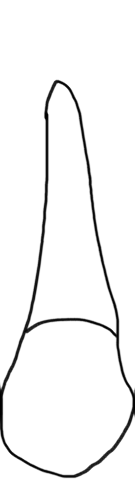
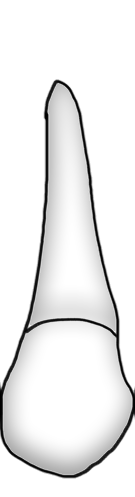
+test imlant pngs

Changed region(s): [[0.0, 0.1509, 1.0, 0.9658]]

diff --git a/teethsite/periodontalchart/static/periodontalchart/js/implant.js b/teethsite/periodontalchart/static/periodontalchart/js/implant.js
@@ -1,0 +1,90 @@
+function implant18() {
+           var el = document.getElementById("t18");
+           if (el.name == 0){
+              el.src = "static/periodontalchart/img/t18i.PNG";
+              el.name = 1;
+              document.getElementById('furk18').hidden = true;
+           }
+           else {
+              el.src = "static/periodontalchart/img/t18.PNG";
+              el.name = 0;
+              document.getElementById('furk18').hidden = false;
+           }
+}
+
+function implant17() {
+           var el = document.getElementById("t17");
+           if (el.name == 0){
+              el.src = "static/periodontalchart/img/t17i.PNG";
+              el.name = 1;
+              document.getElementById('furk17').hidden = true;
+           }
+           else {
+              el.src = "static/periodontalchart/img/t17.PNG";
+              el.name = 0;
+              document.getElementById('furk17').hidden = false;
+           }
+}
+
+function implant16() {
+           var el = document.getElementById("t16");
+           if (el.name == 0){
+              el.src = "static/periodontalchart/img/t16i.PNG";
+              el.name = 1;
+              document.getElementById('furk16').hidden = true;
+           }
+           else {
+              el.src = "static/periodontalchart/img/t16.PNG";
+              el.name = 0;
+              document.getElementById('furk16').hidden = false;
+           }
+}
+
+function implant15() {
+           var el = document.getElementById("t15");
+           if (el.name == 0){
+              el.src = "static/periodontalchart/img/t15i.PNG";
+              el.name = 1;
+           }
+           else {
+              el.src = "static/periodontalchart/img/t15.PNG";
+              el.name = 0;
+           }
+}
+
+function implant14() {
+           var el = document.getElementById("t14");
+           if (el.name == 0){
+              el.src = "static/periodontalchart/img/t14i.PNG";
+              el.name = 1;
+           }
+           else {
+              el.src = "static/periodontalchart/img/t14.PNG";
+              el.name = 0;
+           }
+}
+
+function implant13() {
+           var el = document.getElementById("t13");
+           if (el.name == 0){
+              el.src = "static/periodontalchart/img/t13i.PNG";
+              el.name = 1;
+           }
+           else {
+              el.src = "static/periodontalchart/img/t13.PNG";
+              el.name = 0;
+           }
+}
+
+function implant12() {
+           var el = document.getElementById("t12");
+           if (el.name == 0){
+              el.src = "static/periodontalchart/img/t12i.PNG";
+              el.name = 1;
+           }
+           else {
+              el.src = "static/periodontalchart/img/t15.PNG";
+              el.name = 0;
+           }
+}
+

diff --git a/teethsite/periodontalchart/templates/periodontalchart/index.html b/teethsite/periodontalchart/templates/periodontalchart/index.html
@@ -53,14 +53,14 @@
    </tr>
     <tr align="center">
     <td class="td_text">Фуркация</td>
-       <td><button class="furk" onclick="furk18()"></button></td>
-       <td><button class="furk" onclick="furk17()"></button></td>
-       <td><button class="furk" onclick="furk16()"></button></td>
-       <td><button class="furk" onclick="furk15()"></button></td>
-       <td><button class="furk" onclick="furk14()"></button></td>
-       <td><button class="furk" onclick="furk13()"></button></td>
-       <td><button class="furk" onclick="furk12()"></button></td>
-       <td><button class="furk" onclick="furk11()"></button></td>
+       <td><button class="furk" id="furk18" onclick="furk18()"></button></td>
+       <td><button class="furk" id="furk17" onclick="furk17()"></button></td>
+       <td><button class="furk" id="furk16" onclick="furk16()"></button></td>
+        <td></td>
+       <td></td>
+       <td></td>
+       <td></td>
+       <td></td>
    </tr>
    <tr align="center">
     <td class="td_text">Кровоточивость</td>
@@ -187,14 +187,14 @@
    </tr>
       <tr align="center">
     <td class="td_text" style="border: none; color: white;">Фуркация</td>
-       <td><button class="furk" onclick="furk21()"></button></td>
-       <td><button class="furk" onclick="furk22()"></button></td>
-       <td><button class="furk" onclick="furk23()"></button></td>
-       <td><button class="furk" onclick="furk24()"></button></td>
-       <td><button class="furk" onclick="furk25()"></button></td>
-       <td><button class="furk" onclick="furk26()"></button></td>
-       <td><button class="furk" onclick="furk27()"></button></td>
-       <td><button class="furk" onclick="furk28()"></button></td>
+       <td></td>
+       <td></td>
+       <td></td>
+       <td></td>
+       <td></td>
+       <td><button class="furk" id="furk26" onclick="furk26()"></button></td>
+       <td><button class="furk" id="furk27" onclick="furk27()"></button></td>
+       <td><button class="furk" id="furk28" onclick="furk28()"></button></td>
    </tr>
    <tr align="center">
     <td class="td_text" style="border: none; color: white;">Кровоточивость</td>
@@ -310,5 +310,6 @@
   <script src="static/periodontalchart/js/main.js"></script>
   <script src="static/periodontalchart/js/kr.js"></script>
  <script src="static/periodontalchart/js/otl.js"></script>
+ <script src="static/periodontalchart/js/implant.js"></script>
  </body>
 {% endblock smth1 %}
